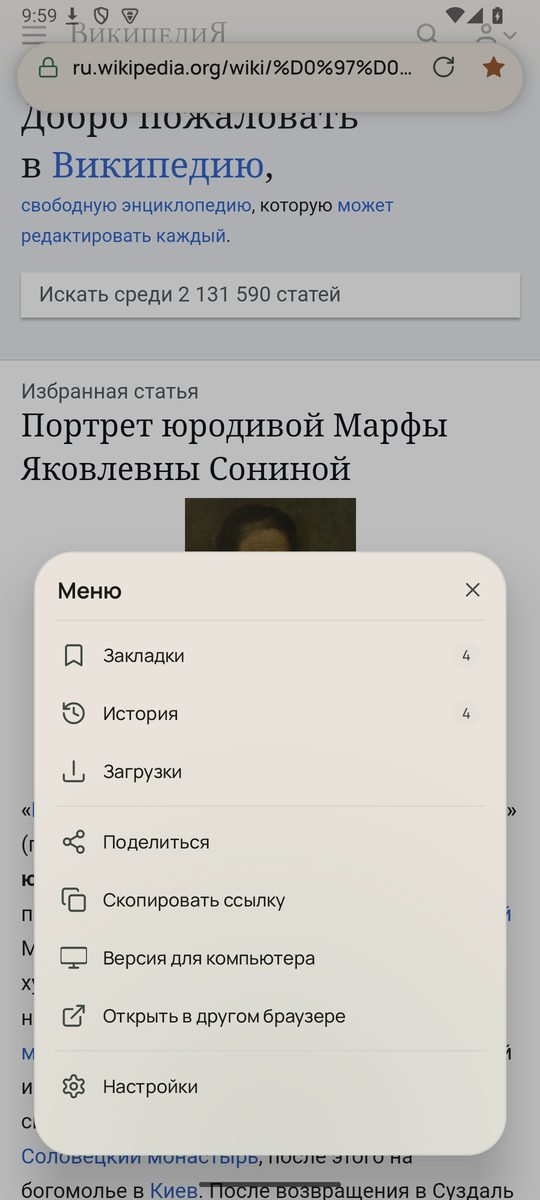
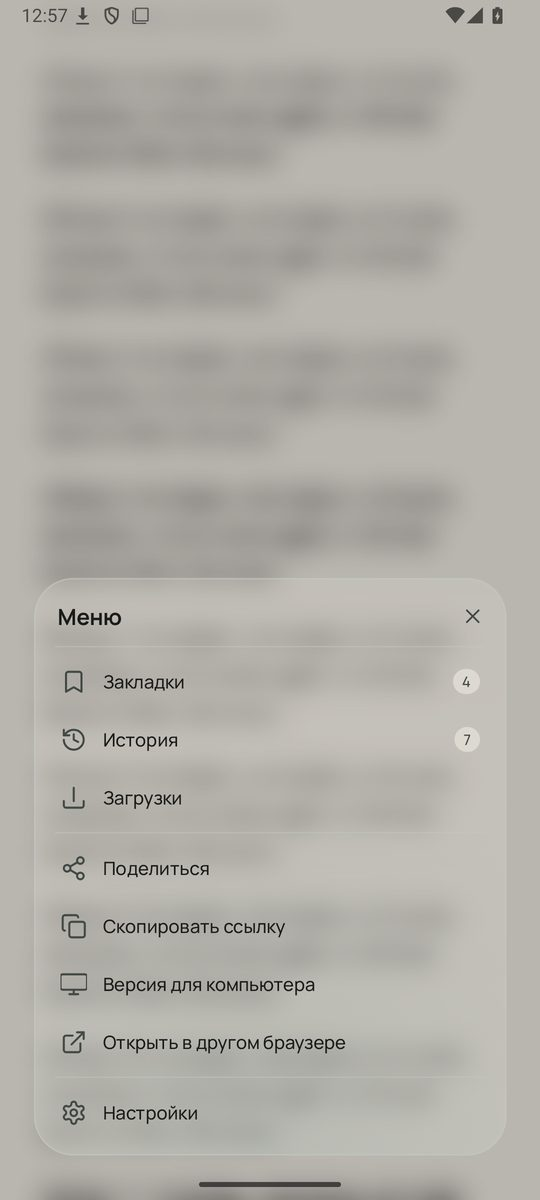
Polish search bar, menu and glass panel

diff --git a/app/src/main/java/app/mimo/browser/ui/components/BrowserDock.kt b/app/src/main/java/app/mimo/browser/ui/components/BrowserDock.kt
@@ -46,19 +46,28 @@ import androidx.compose.material3.Surface
 import androidx.compose.material3.Text
 import androidx.compose.runtime.Composable
 import androidx.compose.runtime.getValue
+import androidx.compose.runtime.mutableStateOf
 import androidx.compose.runtime.remember
+import androidx.compose.runtime.setValue
 import androidx.compose.ui.Alignment
 import androidx.compose.ui.Modifier
+import androidx.compose.ui.draw.clip
 import androidx.compose.ui.draw.rotate
 import androidx.compose.ui.geometry.Offset
+import androidx.compose.ui.geometry.Rect
 import androidx.compose.ui.graphics.Brush
 import androidx.compose.ui.graphics.Color
 import androidx.compose.ui.graphics.TransformOrigin
 import androidx.compose.ui.graphics.graphicsLayer
 import androidx.compose.ui.graphics.vector.ImageVector
+import androidx.compose.ui.layout.onGloballyPositioned
+import androidx.compose.ui.layout.positionInRoot
+import androidx.compose.ui.platform.LocalView
 import androidx.compose.ui.text.font.FontWeight
 import androidx.compose.ui.unit.dp
 import app.mimo.browser.ui.LocalMimoHaptics
+import app.mimo.browser.ui.theme.LocalInterfaceBlur
+import app.mimo.browser.ui.theme.LocalMimoDark
 
 enum class BrowserPanelMode { DOCK, MENU }
 
@@ -78,6 +87,8 @@ fun BrowserSurfaceHost(
     canGoForward: Boolean,
     desktopMode: Boolean,
     hasPage: Boolean,
+    backdrop: GlassBackdrop? = null,
+    pageBlurred: Boolean = false,
     onDismiss: () -> Unit,
     onMenuClick: () -> Unit,
     onBack: () -> Unit,
@@ -97,6 +108,16 @@ fun BrowserSurfaceHost(
     val expanded = mode == BrowserPanelMode.MENU
     val haptics = LocalMimoHaptics.current
     val scrim = remember { MutableInteractionSource() }
+    val windowView = LocalView.current
+    val blurEnabled = LocalInterfaceBlur.current
+    var panelScreen by remember { mutableStateOf<Rect?>(null) }
+    val screen = panelScreen
+    val showBackdrop = expanded && blurEnabled && !pageBlurred && backdrop != null && screen != null
+    val glassActive = expanded && blurEnabled && (showBackdrop || pageBlurred)
+    val dark = LocalMimoDark.current
+    val surfaceColor = MaterialTheme.colorScheme.surfaceContainerHigh
+    val tintStart = surfaceColor.copy(alpha = if (dark) 0.30f else 0.20f)
+    val tintEnd = surfaceColor.copy(alpha = if (dark) 0.44f else 0.32f)
 
     Box(Modifier.fillMaxSize()) {
         AnimatedVisibility(
@@ -122,7 +143,7 @@ fun BrowserSurfaceHost(
                 302.dp
             }
             val panelHeight = if (expanded) {
-                (maxHeight - 150.dp).coerceAtMost(460.dp)
+                (maxHeight - 150.dp).coerceAtMost(if (hasPage) 440.dp else 320.dp)
             } else {
                 68.dp
             }
@@ -155,21 +176,62 @@ fun BrowserSurfaceHost(
                     .padding(bottom = 10.dp)
                     .width(width)
                     .height(height)
+                    .onGloballyPositioned { coordinates ->
+                        val location = IntArray(2)
+                        windowView.rootView.getLocationOnScreen(location)
+                        val position = coordinates.positionInRoot()
+                        panelScreen = Rect(
+                            left = location[0] + position.x,
+                            top = location[1] + position.y,
+                            right = location[0] + position.x + coordinates.size.width,
+                            bottom = location[1] + position.y + coordinates.size.height,
+                        )
+                    }
                     .graphicsLayer {
                         transformOrigin = TransformOrigin(0.14f, 1f)
                         scaleX = 0.92f + 0.08f * origin
                         scaleY = 0.96f + 0.04f * origin
                     },
                 shape = RoundedCornerShape(corner),
-                color = MaterialTheme.colorScheme.surfaceContainerHigh.copy(alpha = 1f),
+                color = if (glassActive) Color.Transparent else surfaceColor.copy(alpha = 1f),
                 border = BorderStroke(
                     1.dp,
                     MaterialTheme.colorScheme.outlineVariant.copy(alpha = 0.55f),
                 ),
-                shadowElevation = if (expanded) 24.dp else 14.dp,
+                shadowElevation = if (expanded) {
+                    if (glassActive) 0.dp else 24.dp
+                } else {
+                    14.dp
+                },
             ) {
                 val glow = MaterialTheme.colorScheme.primary
-                Box(Modifier.fillMaxSize()) {
+                val panelShape = RoundedCornerShape(corner)
+                Box(
+                    Modifier
+                        .fillMaxSize()
+                        .clip(panelShape),
+                ) {
+                    if (showBackdrop && backdrop != null && screen != null) {
+                        GlassBackdropLayer(
+                            backdrop = backdrop,
+                            panel = screen,
+                            blurRadius = 30.dp,
+                            tint = Brush.verticalGradient(listOf(tintStart, tintEnd)),
+                            modifier = Modifier.matchParentSize(),
+                        )
+                    } else if (glassActive) {
+                        Box(
+                            Modifier
+                                .matchParentSize()
+                                .background(Brush.verticalGradient(listOf(tintStart, tintEnd))),
+                        )
+                    } else {
+                        Box(
+                            Modifier
+                                .matchParentSize()
+                                .background(surfaceColor.copy(alpha = 1f)),
+                        )
+                    }
                     Canvas(Modifier.fillMaxSize()) {
                         val radius = size.maxDimension * (0.10f + 0.65f * origin)
                         drawCircle(
@@ -358,6 +420,8 @@ private fun MenuContent(
     downloadCount: Int,
     desktopMode: Boolean,
     hasPage: Boolean,
+    backdrop: GlassBackdrop? = null,
+    pageBlurred: Boolean = false,
     onDismiss: () -> Unit,
     onBookmarks: () -> Unit,
     onHistory: () -> Unit,

diff --git a/app/src/main/java/app/mimo/browser/ui/BrowserRoot.kt b/app/src/main/java/app/mimo/browser/ui/BrowserRoot.kt
@@ -1,6 +1,9 @@
 package app.mimo.browser.ui
 
 import android.app.Activity
+import android.graphics.RenderEffect
+import android.graphics.Shader
+import android.os.Build
 import android.content.ClipData
 import android.content.ClipboardManager
 import android.content.Context
@@ -57,6 +60,7 @@ import androidx.compose.ui.Alignment
 import androidx.compose.ui.Modifier
 import androidx.compose.ui.graphics.Color
 import androidx.compose.ui.platform.LocalContext
+import androidx.compose.ui.platform.LocalDensity
 import androidx.compose.ui.res.stringResource
 import androidx.compose.ui.platform.LocalView
 import androidx.compose.ui.unit.dp
@@ -79,6 +83,8 @@ import app.mimo.browser.ui.browser.BrowserTabsScreen
 import app.mimo.browser.ui.components.AnimatedMimoMark
 import app.mimo.browser.ui.components.BrowserPanelMode
 import app.mimo.browser.ui.components.BrowserSurfaceHost
+import app.mimo.browser.ui.components.GlassBackdrop
+import app.mimo.browser.ui.components.captureGlassBackdrop
 import app.mimo.browser.ui.components.MimoBackdrop
 import app.mimo.browser.ui.components.MimoIcons
 import app.mimo.browser.ui.library.BrowserLibraryScreen
@@ -136,6 +142,8 @@ private fun BrowserRootContent(
     val context = LocalContext.current
     val scope = rememberCoroutineScope()
     val snackbarHost = remember { SnackbarHostState() }
+    val rootView = LocalView.current.rootView
+    var glassBackdrop by remember { mutableStateOf<GlassBackdrop?>(null) }
     val downloadStartedLabel = stringResource(R.string.download_started)
     val downloadsLabel = stringResource(R.string.downloads)
     val downloadFailedLabel = stringResource(R.string.download_failed)
@@ -166,6 +174,28 @@ private fun BrowserRootContent(
     val jsDialog by viewModel.jsDialog.collectAsStateWithLifecycle()
 
     val dockVisible = destination == Destination.Browser && !omniboxOpen && !tabsOpen
+    val pageBlurred = menuOpen && settings.interfaceBlur &&
+        activeState?.isHome == false && Build.VERSION.SDK_INT >= Build.VERSION_CODES.S
+    val blurRadiusPx = with(LocalDensity.current) { 18.dp.toPx() }
+    LaunchedEffect(menuOpen, settings.interfaceBlur, activeTab?.id, activeState?.isHome) {
+        if (Build.VERSION.SDK_INT >= Build.VERSION_CODES.S) {
+            val webView = activeTab?.webView
+            webView?.setRenderEffect(
+                if (pageBlurred) {
+                    RenderEffect.createBlurEffect(blurRadiusPx, blurRadiusPx, Shader.TileMode.CLAMP)
+                } else {
+                    null
+                },
+            )
+        }
+    }
+    DisposableEffect(Unit) {
+        onDispose {
+            if (Build.VERSION.SDK_INT >= Build.VERSION_CODES.S) {
+                activeTab?.webView?.setRenderEffect(null)
+            }
+        }
+    }
 
     LaunchedEffect(incomingUrl, ready) {
         if (incomingUrl != null && ready) {
@@ -283,8 +313,19 @@ private fun BrowserRootContent(
                 canGoForward = activeState?.canGoForward == true,
                 desktopMode = settings.desktopMode,
                 hasPage = activeState?.isHome == false,
+                backdrop = glassBackdrop,
+                pageBlurred = pageBlurred,
                 onDismiss = { viewModel.menuOpen.value = false },
-                onMenuClick = { viewModel.menuOpen.value = true },
+                onMenuClick = {
+                    if (!menuOpen) {
+                        glassBackdrop = if (activeState?.isHome == true) {
+                            captureGlassBackdrop(rootView)
+                        } else {
+                            null
+                        }
+                        viewModel.menuOpen.value = true
+                    }
+                },
                 onBack = { viewModel.goBack() },
                 onForward = { viewModel.goForward() },
                 onNewTab = { viewModel.newTab() },

diff --git a/app/src/main/java/app/mimo/browser/ui/components/GlassBackdrop.kt b/app/src/main/java/app/mimo/browser/ui/components/GlassBackdrop.kt
@@ -1,0 +1,92 @@
+package app.mimo.browser.ui.components
+
+import android.graphics.Bitmap
+import android.graphics.Canvas as AndroidCanvas
+import android.view.View
+import androidx.compose.foundation.Canvas
+import androidx.compose.foundation.background
+import androidx.compose.foundation.layout.Box
+import androidx.compose.foundation.layout.fillMaxSize
+import androidx.compose.runtime.Composable
+import androidx.compose.runtime.staticCompositionLocalOf
+import androidx.compose.ui.Modifier
+import androidx.compose.ui.draw.blur
+import androidx.compose.ui.geometry.Rect
+import androidx.compose.ui.graphics.Brush
+import androidx.compose.ui.graphics.FilterQuality
+import androidx.compose.ui.graphics.asImageBitmap
+import androidx.compose.ui.graphics.drawscope.DrawScope
+import androidx.compose.ui.unit.Dp
+import androidx.compose.ui.unit.IntOffset
+import androidx.compose.ui.unit.IntSize
+
+/**
+ * The main window's root view. Popups compose in their own window, so they
+ * cannot capture the app behind them from `LocalView`; they read this instead.
+ */
+val LocalGlassRoot = staticCompositionLocalOf<View?> { null }
+
+/** A low-resolution snapshot used to paint a frosted panel background. */
+data class GlassBackdrop(
+    val bitmap: Bitmap,
+    val originX: Int,
+    val originY: Int,
+    val scale: Float,
+)
+
+fun captureGlassBackdrop(root: View): GlassBackdrop? {
+    if (root.width <= 0 || root.height <= 0) return null
+    return runCatching {
+        val scale = 0.18f
+        val width = (root.width * scale).toInt().coerceAtLeast(1)
+        val height = (root.height * scale).toInt().coerceAtLeast(1)
+        val bitmap = Bitmap.createBitmap(width, height, Bitmap.Config.ARGB_8888)
+        val canvas = AndroidCanvas(bitmap)
+        canvas.scale(scale, scale)
+        root.draw(canvas)
+        val location = IntArray(2)
+        root.getLocationOnScreen(location)
+        GlassBackdrop(bitmap, location[0], location[1], scale)
+    }.getOrNull()
+}
+
+@Composable
+fun GlassBackdropLayer(
+    backdrop: GlassBackdrop,
+    panel: Rect,
+    blurRadius: Dp,
+    tint: Brush,
+    modifier: Modifier = Modifier,
+) {
+    Box(modifier.fillMaxSize()) {
+        Canvas(
+            Modifier
+                .fillMaxSize()
+                .blur(blurRadius)
+        ) {
+            drawBackdrop(backdrop, panel)
+        }
+        Box(Modifier.fillMaxSize().background(tint))
+    }
+}
+
+private fun DrawScope.drawBackdrop(backdrop: GlassBackdrop, panel: Rect) {
+    val bitmap = backdrop.bitmap
+    val left = ((panel.left - backdrop.originX) * backdrop.scale).toInt()
+    val top = ((panel.top - backdrop.originY) * backdrop.scale).toInt()
+    val width = (panel.width * backdrop.scale).toInt().coerceAtLeast(1)
+    val height = (panel.height * backdrop.scale).toInt().coerceAtLeast(1)
+    val srcX = left.coerceIn(0, (bitmap.width - 1).coerceAtLeast(0))
+    val srcY = top.coerceIn(0, (bitmap.height - 1).coerceAtLeast(0))
+    val srcWidth = width.coerceAtMost(bitmap.width - srcX).coerceAtLeast(1)
+    val srcHeight = height.coerceAtMost(bitmap.height - srcY).coerceAtLeast(1)
+    drawImage(
+        image = bitmap.asImageBitmap(),
+        srcOffset = IntOffset(srcX, srcY),
+        srcSize = IntSize(srcWidth, srcHeight),
+        dstOffset = IntOffset.Zero,
+        dstSize = IntSize(size.width.toInt(), size.height.toInt()),
+        filterQuality = FilterQuality.High,
+    )
+}
+

diff --git a/app/src/main/java/app/mimo/browser/ui/browser/BrowserAddressBar.kt b/app/src/main/java/app/mimo/browser/ui/browser/BrowserAddressBar.kt
@@ -12,6 +12,7 @@ import androidx.compose.foundation.interaction.MutableInteractionSource
 import androidx.compose.foundation.layout.Box
 import androidx.compose.foundation.layout.Row
 import androidx.compose.foundation.layout.Spacer
+import androidx.compose.foundation.layout.fillMaxSize
 import androidx.compose.foundation.layout.fillMaxWidth
 import androidx.compose.foundation.layout.height
 import androidx.compose.foundation.layout.padding
@@ -81,9 +82,11 @@ fun BrowserAddressBar(
             ),
             shadowElevation = 8.dp,
         ) {
-            Box {
+            Box(Modifier.fillMaxSize()) {
                 Row(
-                    modifier = Modifier.padding(start = 16.dp, end = 4.dp),
+                    modifier = Modifier
+                        .fillMaxSize()
+                        .padding(start = 16.dp, end = 4.dp),
                     verticalAlignment = Alignment.CenterVertically,
                 ) {
                     Icon(

diff --git a/app/src/main/java/app/mimo/browser/ui/browser/BrowserOmnibox.kt b/app/src/main/java/app/mimo/browser/ui/browser/BrowserOmnibox.kt
@@ -120,7 +120,9 @@ fun BrowserOmnibox(
                     shadowElevation = 6.dp,
                 ) {
                     Row(
-                        modifier = Modifier.padding(start = 16.dp, end = 4.dp),
+                        modifier = Modifier
+                            .fillMaxSize()
+                            .padding(start = 16.dp, end = 4.dp),
                         verticalAlignment = Alignment.CenterVertically,
                     ) {
                         Icon(

diff --git a/app/src/main/java/app/mimo/browser/ui/browser/BrowserHomeScreen.kt b/app/src/main/java/app/mimo/browser/ui/browser/BrowserHomeScreen.kt
@@ -304,7 +304,9 @@ private fun HomeSearchBar(onClick: () -> Unit) {
         shadowElevation = 4.dp,
     ) {
         Row(
-            modifier = Modifier.padding(start = 9.dp, end = 9.dp),
+            modifier = Modifier
+                .fillMaxSize()
+                .padding(start = 9.dp, end = 9.dp),
             verticalAlignment = Alignment.CenterVertically,
         ) {
             Surface(

diff --git a/app/src/main/java/app/mimo/browser/ui/library/BrowserLibraryScreen.kt b/app/src/main/java/app/mimo/browser/ui/library/BrowserLibraryScreen.kt
@@ -331,7 +331,9 @@ private fun LibrarySearchField(
         ),
     ) {
         Row(
-            modifier = Modifier.padding(start = 16.dp, end = 6.dp),
+            modifier = Modifier
+                .fillMaxSize()
+                .padding(start = 16.dp, end = 6.dp),
             verticalAlignment = Alignment.CenterVertically,
         ) {
             Icon(

diff --git a/README.md b/README.md
@@ -69,6 +69,7 @@ GPL-3.0 · Android 9+
   красным акцентом и точечным шрифтом.
 - Крупная типографика Unbounded + Manrope.
 - Мягкие градиенты, бумажное зерно и пружинные анимации.
+- Стеклянная панель меню с размытием страницы под ней.
 
 ## Скриншоты
 
